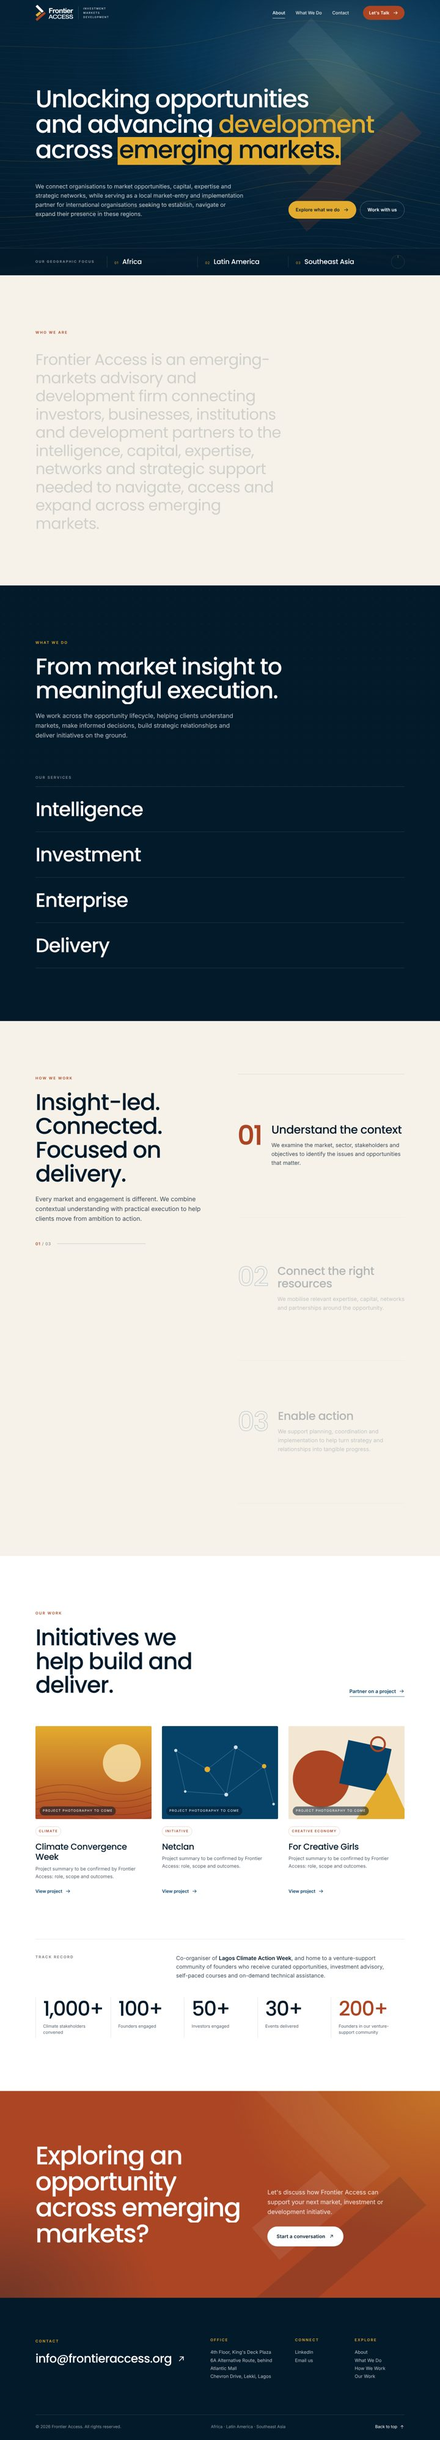
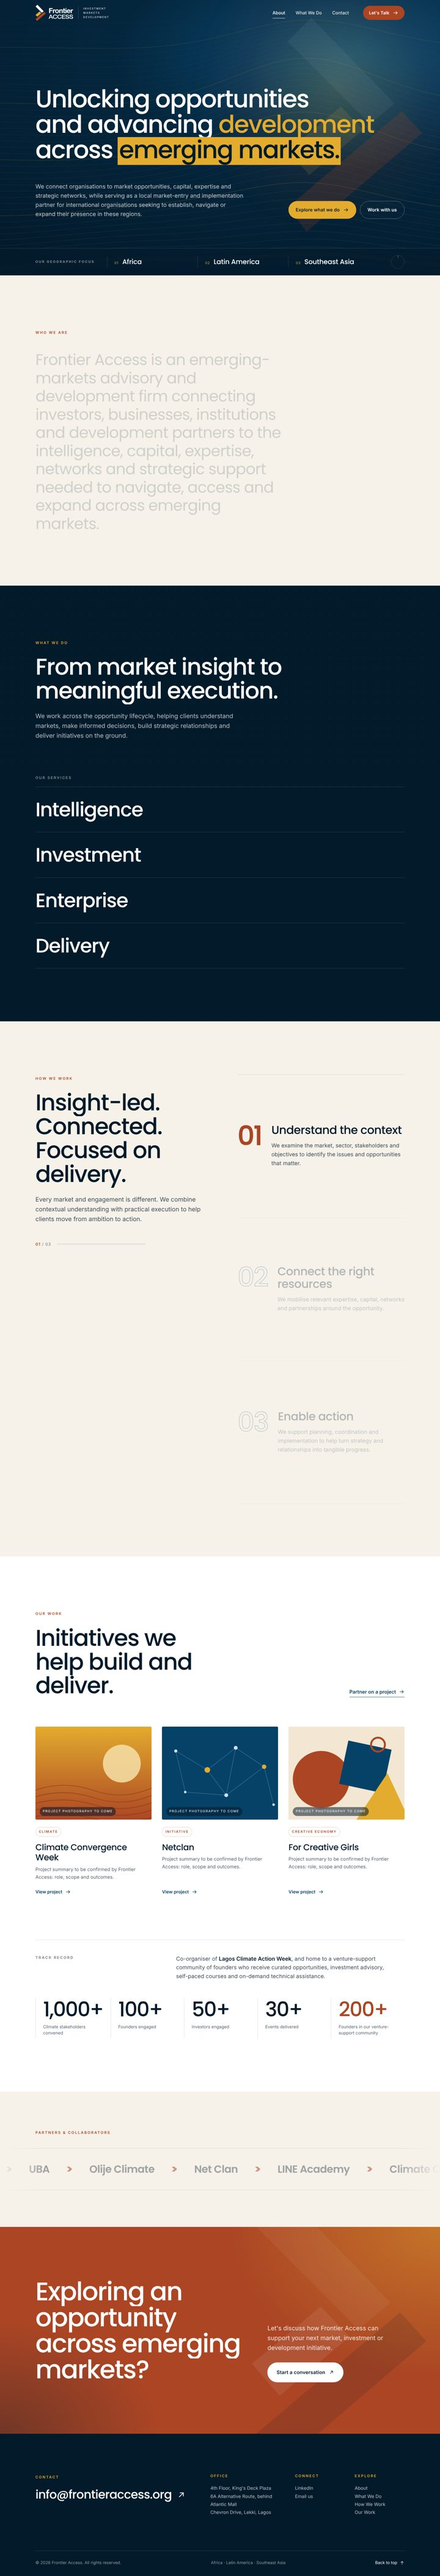
Bring back the Partners & collaborators section
Restore the partner name marquee between Our work and the closing CTA,
without the section number, plus its styles, reduced-motion fallback and
loop script.

Claude-Session: https://claude.ai/code/session_013iMuxdDqZ6bm7NfrpEJfTy

Changed region(s): [[0.0, 0.0311, 1.0, 0.5286], [0.0, 0.6219, 1.0, 0.995], [0.9167, 0.0311, 0.9472, 0.0622]]

diff --git a/styles.css b/styles.css
@@ -368,6 +368,21 @@ body.menu-open .mobile-menu li:nth-child(5) a { transition-delay: .44s; }
 .stat dd { margin-top: 14px; font-size: 14px; line-height: 1.45; color: #55626d; }
 .stat-accent dt { color: var(--rust); }
 
+/* ---------- Partners ---------- */
+.partners { background: var(--paper); padding: clamp(72px, 9vw, 120px) 0; overflow: hidden; }
+.marquee { margin-top: 40px; position: relative; mask-image: linear-gradient(90deg, transparent, #000 10%, #000 90%, transparent); -webkit-mask-image: linear-gradient(90deg, transparent, #000 10%, #000 90%, transparent); border-top: 1px solid var(--line); border-bottom: 1px solid var(--line); }
+.marquee-track { display: flex; width: max-content; animation: marquee 38s linear infinite; }
+.marquee:hover .marquee-track { animation-play-state: paused; }
+.marquee-group { display: flex; flex: none; }
+.marquee-group li {
+  display: flex; align-items: center; gap: 56px; padding: 40px 28px;
+  font-family: var(--f-head); font-weight: 600; font-size: clamp(22px, 2.4vw, 34px); letter-spacing: -.02em; white-space: nowrap;
+  color: rgba(12,28,41,.38); transition: color .4s;
+}
+.marquee-group li:hover { color: var(--navy); }
+.marquee-group li::after { content: ""; width: 18px; height: 16px; background: var(--rust); opacity: .55; clip-path: polygon(0 0, 50% 50%, 0 100%, 25% 100%, 75% 50%, 25% 0, 50% 0, 100% 50%, 50% 100%, 25% 100%, 75% 50%, 25% 0); }
+@keyframes marquee { to { transform: translateX(-50%); } }
+
 /* ---------- CTA ---------- */
 .cta { position: relative; background: var(--rust); color: #fff; padding: clamp(96px, 12vw, 168px) 0; overflow: hidden; isolation: isolate; }
 .cta::before { content: ""; position: absolute; inset: 0; z-index: -1; background: radial-gradient(80% 120% at 100% 0%, rgba(227,172,46,.45), transparent 60%), radial-gradient(60% 90% at 0% 100%, rgba(3,26,43,.35), transparent 60%); }
@@ -443,6 +458,8 @@ body.menu-open .mobile-menu li:nth-child(5) a { transition-delay: .44s; }
   *, *::before, *::after { animation-duration: .001ms !important; animation-iteration-count: 1 !important; transition-duration: .001ms !important; transition-delay: 0s !important; }
   [data-reveal], .hero-anim { opacity: 1; transform: none; }
   .line > span, .split-word > span { transform: none; }
+  .marquee-track { animation: none; flex-wrap: wrap; width: auto; }
+  .marquee-group:nth-child(2) { display: none; }
   .statement .w { color: var(--navy-ink); }
   .hm { transform: none; opacity: 1; }
   .client-detail-inner { opacity: 1; transform: none; }

diff --git a/index.html b/index.html
@@ -332,6 +332,27 @@
       </div>
     </section>
 
+    <!-- ============ PARTNERS ============ -->
+    <section class="partners" aria-labelledby="partners-title">
+      <div class="container partners-head">
+        <p class="eyebrow" id="partners-title" data-reveal>Partners &amp; collaborators</p>
+      </div>
+      <!-- Replace each wordmark with partner logo files when supplied -->
+      <div class="marquee" data-marquee>
+        <div class="marquee-track">
+          <ul class="marquee-group">
+            <li>Climate Convergence Week</li>
+            <li>Climate Week Network</li>
+            <li>Climatebase</li>
+            <li>UBA</li>
+            <li>Olije Climate</li>
+            <li>Net Clan</li>
+            <li>LINE Academy</li>
+          </ul>
+        </div>
+      </div>
+    </section>
+
     <!-- ============ CTA ============ -->
     <section class="cta" aria-labelledby="cta-title">
       <svg class="cta-mark" viewBox="360 133 778 1234" aria-hidden="true"><use href="#fa-mark" x="360" y="133" width="778" height="1234" /></svg>

diff --git a/main.js b/main.js
@@ -74,6 +74,14 @@
     counters.forEach(c => cio.observe(c));
   } else counters.forEach(runCounter);
 
+  /* ---------- Marquee: duplicate group for seamless loop ---------- */
+  document.querySelectorAll('[data-marquee] .marquee-track').forEach(track => {
+    const group = track.querySelector('.marquee-group');
+    const clone = group.cloneNode(true);
+    clone.setAttribute('aria-hidden', 'true');
+    track.appendChild(clone);
+  });
+
   /* ---------- What we do: expandable rows (hover on desktop, tap/keyboard everywhere) ---------- */
   const canHover = window.matchMedia('(hover: hover)');
   document.querySelectorAll('[data-expand]').forEach(row => {

diff --git a/README.md b/README.md
@@ -10,7 +10,7 @@ One-page website for **Frontier Access** (frontieraccess.org), an emerging-marke
 |---|---|
 | `index.html` | Page markup and all copy |
 | `styles.css` | Brand palette (navy `#064268`, rust `#AB4524`, gold `#E3AC2E`), layout, responsive rules, animations |
-| `main.js` | Hero contour-line canvas, scroll reveals, word-fill statement, expandable "What we do" rows, sticky "How we work" steps, counters, header and mobile menu |
+| `main.js` | Hero contour-line canvas, scroll reveals, word-fill statement, expandable "What we do" rows, sticky "How we work" steps, counters, partner marquee, header and mobile menu |
 | `assets/logo/` | Official logo files (PNG originals), vector SVG versions, favicon and touch icon |
 | `preview/` | Full-page desktop and mobile screenshots |
 
@@ -29,4 +29,5 @@ In `index.html` the logo is inlined once as `<symbol id="fa-logo">` / `<symbol i
 ## Placeholders to replace before launch
 
 - **Our Work**: project photos (currently illustrations marked "Project photography to come") and summaries for Climate Convergence Week, Netclan and For Creative Girls.
+- **Partners**: the marquee shows partner names as text until logo files are supplied.
 - **LinkedIn**: the footer link is `href="#"` until the company page URL is confirmed.
